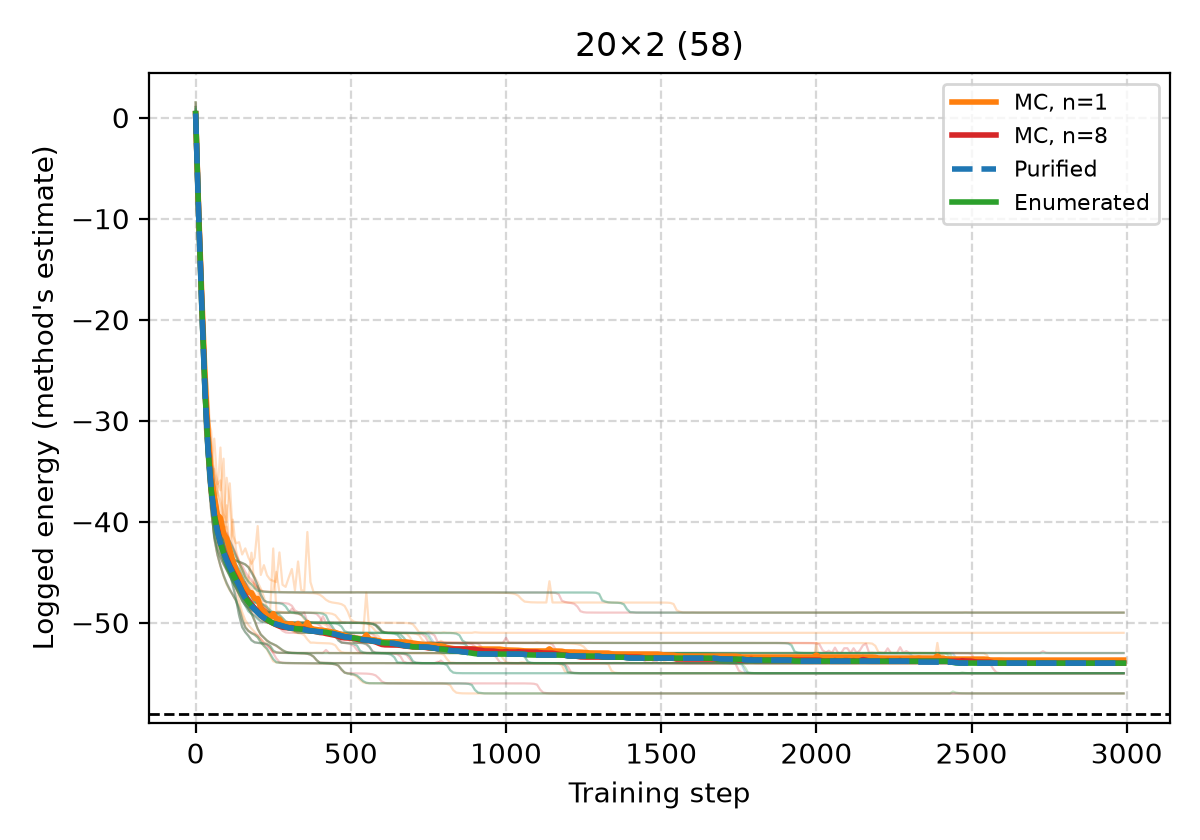
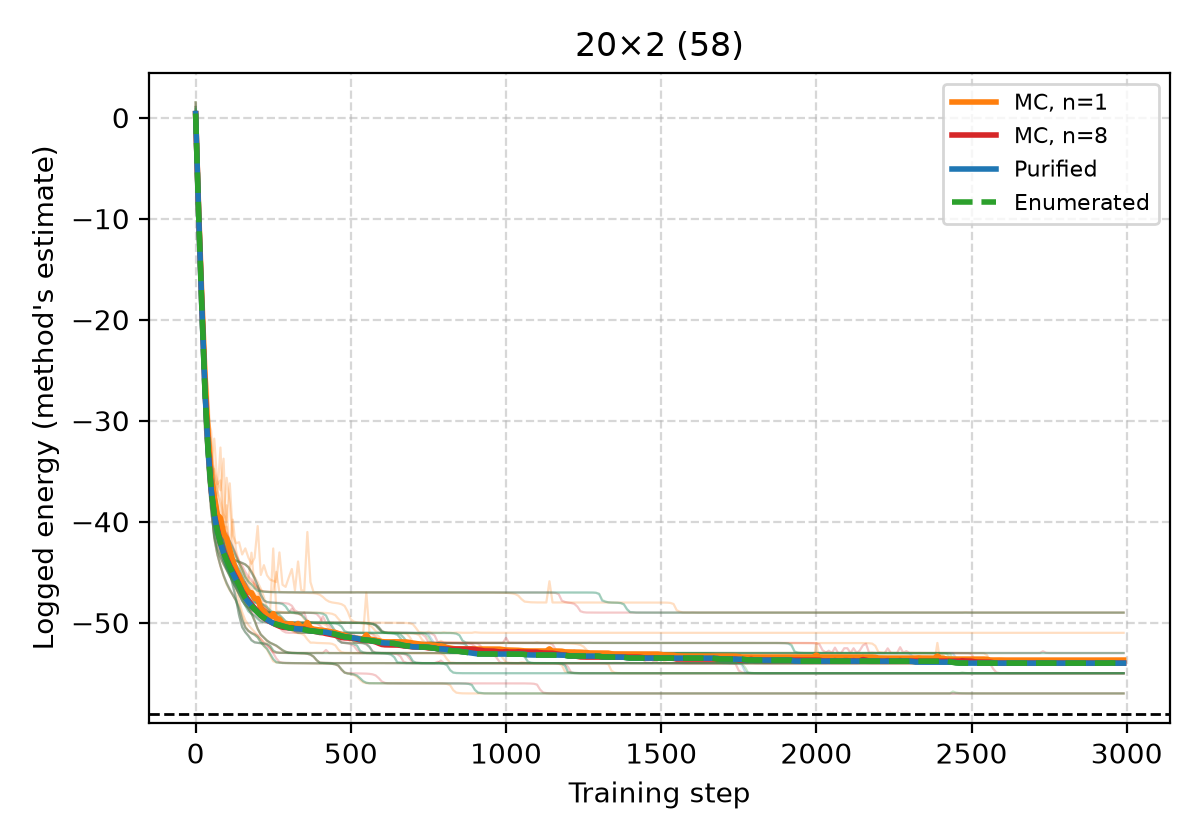
exp1_compare: purified solid underneath, enumerated dashed on top where they coincide

Changed region(s): [[0.37, 0.7738, 0.9558, 0.8048], [0.1542, 0.1238, 0.185, 0.65], [0.185, 0.65, 0.37, 0.7738]]

diff --git a/src/experiments/exp1_compare.py b/src/experiments/exp1_compare.py
@@ -236,8 +236,8 @@ def plot_per_size(rows, out_dir, plt):
                 continue
             drawn = True
             # Purified and enumerated coincide only in the energy-gap plots: there
-            # purified is dashed and drawn on top so enumerated shows through.
-            overlap = key.startswith("energy_gap") and m == "purified"
+            # enumerated is dashed and drawn on top so purified shows through.
+            overlap = key.startswith("energy_gap") and m == "enumerated"
             ax.plot([r["n_qubits"] for r in ok], [r[key] * scale for r in ok], color=colour,
                     marker="o", ms=3.5, lw=1.2, label=label,
                     ls="--" if overlap else "-", zorder=4 if overlap else 2)
@@ -295,11 +295,11 @@ def _plot_training_curves(rows, out_dir, plt, col, ylabel, suffix):
                 continue
             steps = data["step"][data["trial"] == trials[0]]
             # Purified and enumerated are both exact and share initial
-            # parameters, so their curves coincide: purified is dashed and drawn
-            # on top (higher zorder) so both stay visible.
-            pur = r["method"] == "purified"
+            # parameters, so their curves coincide: enumerated is dashed and
+            # drawn on top (higher zorder) of the solid purified line.
+            enum = r["method"] == "enumerated"
             ax.plot(steps, np.mean(curves, axis=0), color=colour, lw=2, label=label,
-                    ls="--" if pur else "-", zorder=4 if pur else 3)
+                    ls="--" if enum else "-", zorder=4 if enum else 3)
         ax.axhline(exact_ground_energy(Lx, Ly), color="k", ls="--", lw=1)
         ax.set_xlabel("Training step")
         ax.set_ylabel(ylabel)
